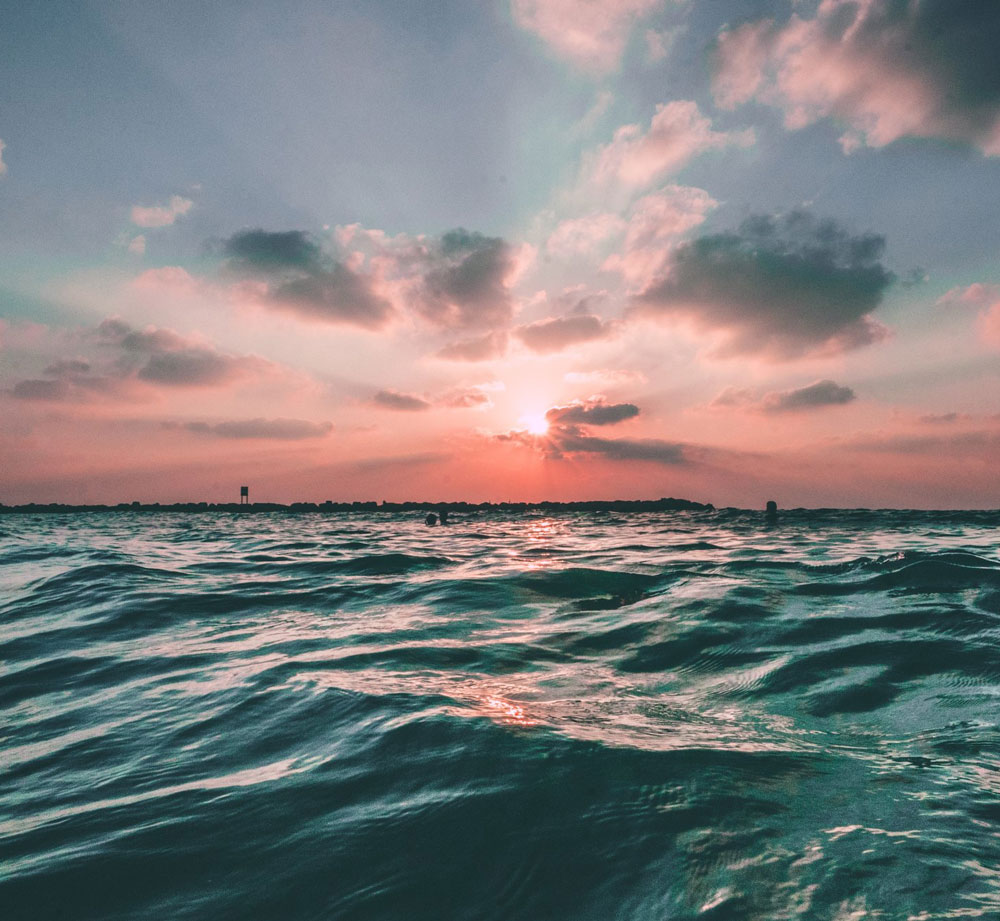
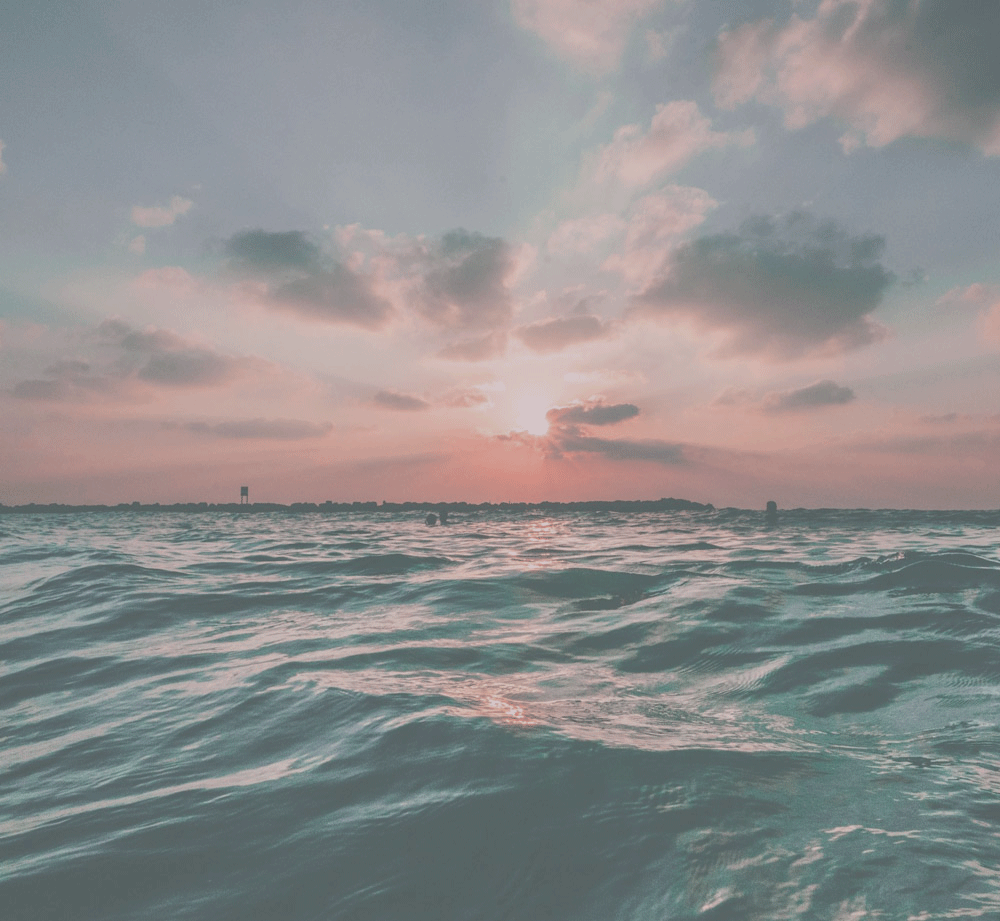
added images and boxes

diff --git a/src/views/Typologi.vue b/src/views/Typologi.vue
@@ -1,10 +1,13 @@
 <template>
   <div class="Typologi">
     <PageBody :propName="name">
-      <template v-slot:top-box></template>
-      <template v-slot:body-text>
+      <!--      <template v-slot:top-box></template>
+      <template v-slot:body-text>-->
+      <template v-slot:box-1>
         <h2>Mitt verktyg: Typologi</h2>
         <p>Jag är en coach med ett kraftfullt verktyg i portföljen som jag i sättet jag använder det på är relativt ensam om…</p>
+      </template>
+      <template v-slot:box-2>
         <h2>Vad kan jag göra med Typologi?</h2>
         <p>
           Vi börjar med att göra en analys av dig där vi sitter i ett samtal tillsammans.
@@ -14,7 +17,6 @@
           Det kan nämligen vara svårt för en coach att anpassa sitt lyssnande hela tiden till någon som inte passar dem.
           Det är ofta det som gör att coachen rekommenderar dig till en annan coach.
         </p>
-
         <p>
           Jag kan däremot skifta mitt lyssnande ut efter behov och efter en noggrann analys.
           Du kan vila lugnt i att jag optimerar vår process till en så effektiv grad som möjligt för att få ut maximalt med resultat.
@@ -22,14 +24,17 @@
           Det finns såklart självklara vinster med att ha en coach som förstår dig. I vilket fall som helst är mitt jobb som coach att ställa frågor,
           hålla i processen och hjälpa dig hitta i ditt eget innehåll du tar med dig in i samtalen.
         </p>
-
+      </template>
+      <template v-slot:box-3>
         <p>
           Vidare om du är intresserad mer av typologi och skulle vilja lära dig mer kan jag erbjuda utbildning i detta
           så att du själv kan få ett bättre grepp om människorna omkring dig men också såklart dig själv.
         </p>
-
+      </template>
+      <template v-slot:box-4>
         <router-link to="/Kontakt" class="boka-tid">Boka tid</router-link>
-
+      </template>
+      <template v-slot:box-4>
         <h2>För er som vill läsa mer…</h2>
 
         <p>

diff --git a/src/store.js b/src/store.js
@@ -9,29 +9,35 @@ export default new Vuex.Store({
     pages: [
        { name: "Home",
          image: "./images/Home.jpg",
-         imageMobile: "./images/Home-mobile-dark.jpg",
-         path: "/"
+         imageMobile: "./images/Home-mobile-bw.gif",
+         path: "/",
+         boxCount:1
         },
         { name: "Kontakt",
          image: "./images/Kontakt.png",
-         imageMobile: "./images/Kontakt-mobile-dark.jpg",
-         path: "/Kontakt"
+         imageMobile: "./images/Kontakt-mobile-bw.gif",
+         imageBackground: "./images/Home-kvadrat-light.gif",
+         path: "/Kontakt",
+         boxCount: 3
         },
         { name: "Coaching",
          imageDesktop: "./images/Coaching-mobile.jpg",
          imageMobile: "./images/Coaching-mobile-dark.jpg",
-         path: "/Coaching"
+         path: "/Coaching",
+         boxCount: 2
         },
          { name: "Typologi",
          image: "./images/Typologi.jpg",
           imageMobile: "./images/Typologi-mobile.jpg",
-         path: "/Typologi"
+         path: "/Typologi",
+         boxCount: 5
         }
       ],
       logos: [
         {name: "von-eckermann",
         black: "logos/von-eckermann-black.png",
-        white: "logos/von-eckermann-white.png"
+        white: "logos/von-eckermann-white.png",
+        alt: "Marcus Von Eckermann Logo"
       },
         {name: "hamburger",
         black: "logos/hamburger-black.png",

diff --git a/src/views/Kontakt.vue b/src/views/Kontakt.vue
@@ -1,11 +1,11 @@
 <template>
   <div class="kontakt">
-    <PageBody :propName="name">
+    <PageBody :propName="name" :boxCount="4">
       <template v-slot:box-1>
-        <h2>Lorem ipsum</h2>
-        <p>Jag heter Marcus von Eckermann</p>
+        <h2>Lorem Ipsum</h2>
         <p>
-          Jag är modig, rak och nyfiken.
+          Jag heter Marcus von Eckermann.
+          <br />Jag är modig, rak och nyfiken.
           Jag har förmågan att bygga relation snabbt med lekfullhet som får andra att våga testa sig fram. Jag är avslappnad med ett leende som smittar.
           Jag har lätt att förstå andra och föder kreativitet i samtalet.
         </p>
